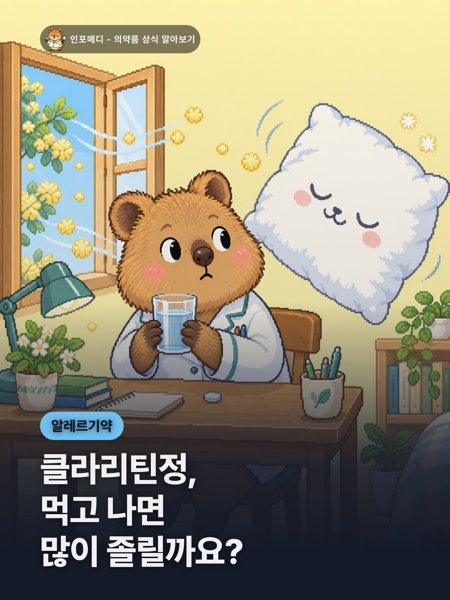
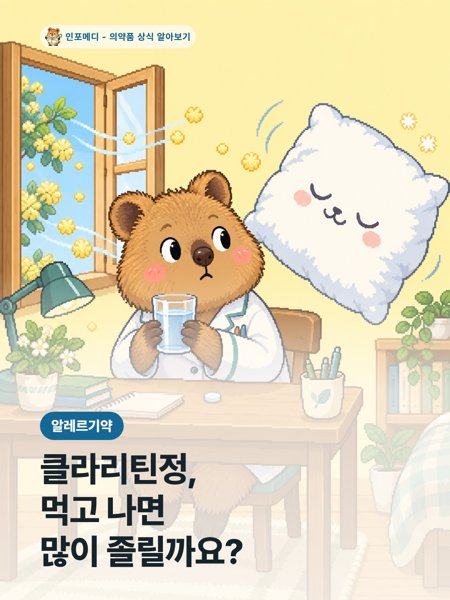
links

diff --git a/index.html b/index.html
@@ -34,7 +34,7 @@
 <section class="section">
 <h2>의약품 정보 <small id="count"></small></h2>
 <div class="grid" id="list">
-<a class="item" href="https://blog.naver.com/info_medi_/224426521884"><img src="c/클라리틴정-white.jpg" alt="" loading="lazy">
+<a class="item" href="https://blog.naver.com/info_medi_/224426521884"><img src="c/클라리틴정.jpg" alt="" loading="lazy">
 <span><b>클라리틴정, 먹고 나면 많이 졸릴까요?</b><small><time datetime="2026-10-07 18:21"></time></small></span></a>
 <a class="item" href="https://blog.naver.com/info_medi_/224431602579"><img src="c/치센.jpg" alt="" loading="lazy">
 <span><b>치센, 얼마나 오래 먹는 약일까요?</b><small><time datetime="2026-10-07 12:25"></time></small></span></a>
